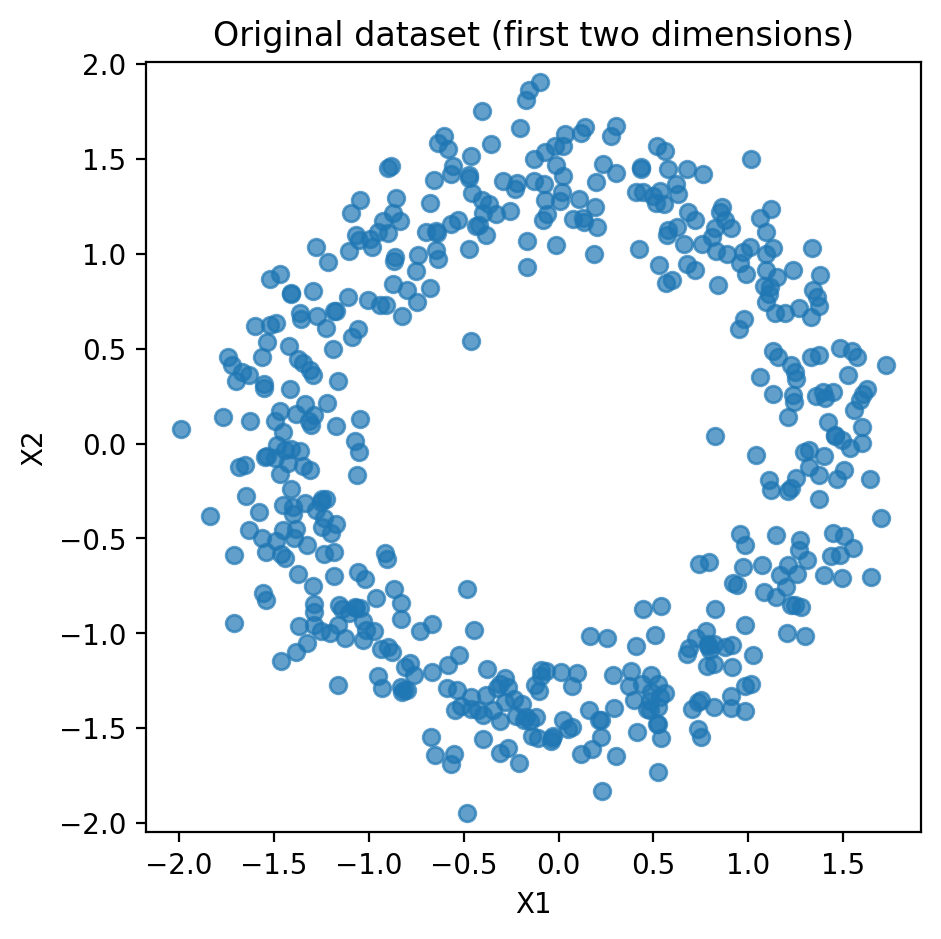
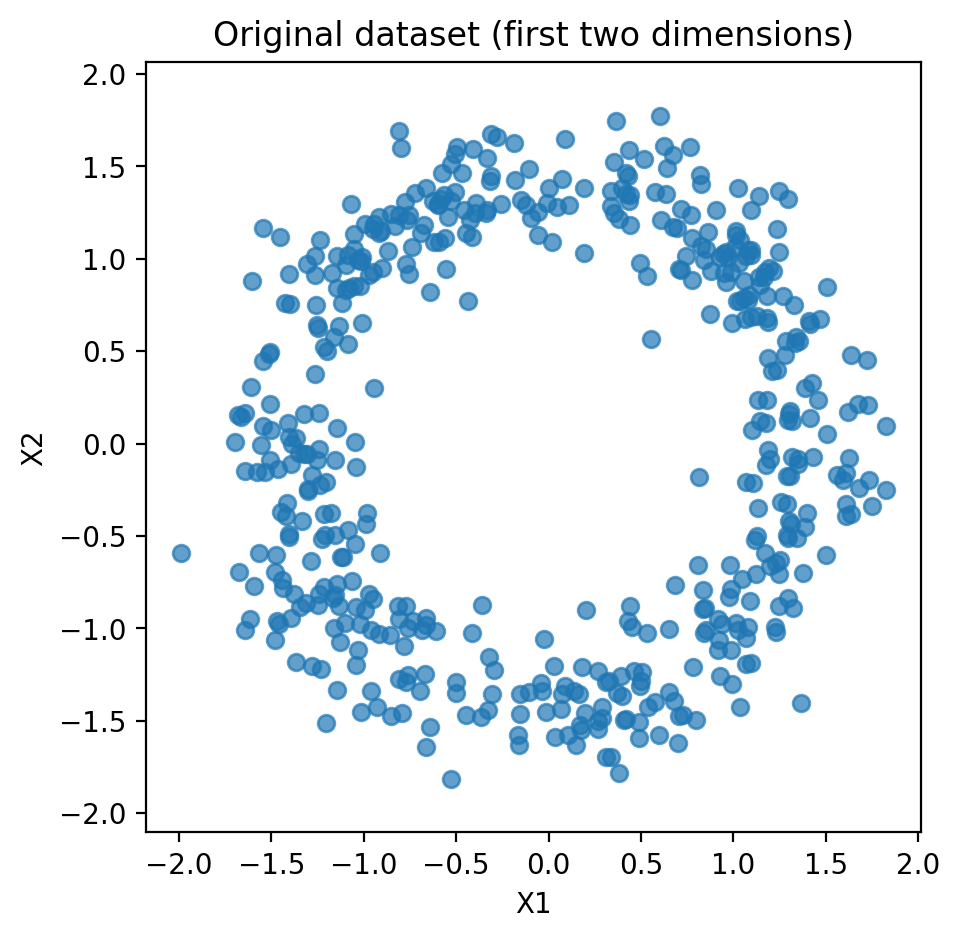
Update examples

diff --git a/examples/ics_principle.py b/examples/ics_principle.py
@@ -1,0 +1,153 @@
+import numpy as np
+import pandas as pd
+import plotly.graph_objects as go
+import plotly.express as px
+from math import atan2
+from scipy.stats import chi2
+from icspylab.scatter import cov, cov4
+from icspylab.ics import ICS
+
+
+path = "2_viz_output/"
+
+def create_ellipse_points(loc, cov):
+    """
+    Creates points to draw the ellipse of a distribution.
+
+    Parameters:
+        loc (array-like of shape (2,): location parameter
+        cov (array-like of shape (2,2): scatter matrix
+
+    Returns:
+        ndarray, ndarray: x and y coordinates of points to draw the ellipse
+    """
+
+    dist = np.sqrt(chi2.ppf(0.975, 2))
+
+    # Compute eigenvectors and eigenvalues
+    cov_eigenval, cov_eigenvect = np.linalg.eig(cov)
+    lambda1 = np.max(cov_eigenval)
+    lambda2 = np.min(cov_eigenval)
+    cov_eigenvect_max = cov_eigenvect[:, np.argsort(cov_eigenval)[1]]
+
+    # Compute the angle between the x-axis and the largest eigenvector, output must be between 0 and 2pi
+    alfa = atan2(cov_eigenvect_max[1], cov_eigenvect_max[0])
+    if alfa < 0:
+        alfa += (2 * np.pi)
+
+    # Create ellipse points in x and y coordinates
+    z = np.arange(0, 2*np.pi, 0.01)
+    z1 = dist * np.sqrt(lambda1) * np.cos(z)
+    z2 = dist * np.sqrt(lambda2) * np.sin(z)
+
+    # Define a rotation matrix and rotate the ellipse to angle alpha
+    r = np.array([[np.cos(alfa), np.sin(alfa)], [-np.sin(alfa), np.cos(alfa)]])
+    ellipse_points = loc + np.dot(np.column_stack((z1, z2)), r)
+
+    return ellipse_points[:, 0], ellipse_points[:, 1]
+
+
+# Generate data
+
+# Set parameters to generate data
+n_samples = 980
+n_outliers = 20
+n_features = 2
+add_outliers = True
+
+# Generate Gaussian data of shape (125,2)
+gen_cov = np.diag((1, 5))
+gen_loc = np.array([0, 0])
+
+X = np.random.default_rng().multivariate_normal(gen_loc, gen_cov, n_samples)
+df = pd.DataFrame(X, columns=['X1', 'X2'])
+df['Group'] = 'Group_1'
+
+# Add some outliers
+if add_outliers:
+    outlier_cov = gen_cov
+    outlier_loc = np.array([8, -2])
+    X_out = np.random.default_rng().multivariate_normal(outlier_loc, outlier_cov, n_outliers)
+    X = np.concatenate((X, X_out), axis=0)
+    df_out = pd.DataFrame(X_out, columns=['X1', 'X2'])
+    df_out['Group'] = 'Group_2'
+    df = pd.concat([df, df_out])
+
+
+# Scatter matrices
+
+# Compute two scatters
+cov_X = cov(X)
+cov4_X = cov4(X)
+
+# Create ellipses
+x_emp, y_emp = create_ellipse_points(cov_X.location, cov_X.scatter)
+x_cov4, y_cov4 = create_ellipse_points(cov4_X.location, cov4_X.scatter)
+
+# Plot groups
+fig = px.scatter(df, x='X1', y='X2', color='Group', color_discrete_sequence=['rgb(31, 119, 180)', 'rgb(255, 127, 14)'])
+# fig.update_yaxes(range=[-4, 4])
+# fig.update_xaxes(range=[-10, 13])
+fig.update_xaxes(scaleanchor='y')
+fig.update_yaxes(scaleanchor='x')
+fig.update_yaxes(range=[-10, 9])
+fig.update_xaxes(range=[-10, 13])
+fig.update_layout(width=600, height=525,
+                  margin=dict(l=20, r=20, t=20, b=20)
+                  )
+fig.write_image('../docs/_static/ellipses_empty.png')
+
+# LDA
+from sklearn.discriminant_analysis import LinearDiscriminantAnalysis as LDA
+lda = LDA(solver='eigen', n_components=1)
+X_lda = lda.fit_transform(X, df["Group"])
+lda_coef = lda.scalings_[:, 0]
+
+origin = np.mean(X, axis=0)
+axis_length = 20
+axis_start = origin - axis_length * lda_coef
+axis_end = origin + axis_length * lda_coef
+fig.add_trace(go.Scatter(x=[axis_start[0], axis_end[0]], y=[axis_start[1], axis_end[1]],
+                         line_color='rgb(23, 190, 207)', mode='lines', name='LDA'))
+fig.update_layout(width=600, height=525,
+                  margin=dict(l=20, r=20, t=20, b=20)
+                  )
+fig.write_image('../docs/_static/ellipses_lda.png')
+
+# Add ellipses
+fig.add_scatter(x=x_emp, y=y_emp, mode='lines', name='COV', line_color='rgb(188, 189, 34)')
+fig.add_scatter(x=x_cov4, y=y_cov4, mode='lines', name='COV4', line_color='rgb(148, 103, 189)')
+fig.update_layout(width=600, height=525,
+                  margin=dict(l=20, r=20, t=20, b=20)
+                  )
+fig.write_image('../docs/_static/ellipses_covcov4.png')
+
+# Add PCA
+from sklearn.decomposition import PCA
+from sklearn.preprocessing import StandardScaler
+scaler = StandardScaler()
+X_scaled = scaler.fit_transform(X)
+pca = PCA()
+pca.fit(X) # or X_scaled
+first_component = pca.components_[0]
+variance = pca.explained_variance_[0]
+axis_start = pca.mean_ - (axis_length-5) * first_component
+axis_end = pca.mean_ + (axis_length-5) * first_component
+fig.add_trace(go.Scatter(x=[axis_start[0], axis_end[0]], y=[axis_start[1], axis_end[1]],
+                         line_color='rgb(253, 108, 158)', mode='lines', name='PC1'))
+
+# ICS
+ics = ICS(S1=cov, S2=cov4, algorithm="whiten")
+X_new = ics.fit_transform(X)
+
+ics_coef = ics.W_
+axis_start = origin - axis_length * ics_coef[0]
+axis_end = origin + axis_length * ics_coef[0]
+fig.add_trace(go.Scatter(x=[axis_start[0], axis_end[0]], y=[axis_start[1], axis_end[1]],
+                         line_color='rgb(214, 39, 40)', mode='lines', name='ICS'))
+
+fig.update_layout(width=600, height=525,
+                  margin=dict(l=20, r=20, t=20, b=20)
+                  )
+fig.show()
+fig.write_image('../docs/_static/ellipses.png')

diff --git a/docs/conf.py b/docs/conf.py
@@ -26,6 +26,11 @@ extensions = [
     'myst_parser'
 ]
 
+myst_enable_extensions = [
+    "amsmath",
+    "dollarmath",
+]
+
 source_suffix = {
     ".rst": "restructuredtext",
     ".md": "markdown",

diff --git a/examples/randu.py b/examples/randu.py
@@ -58,3 +58,5 @@ ics.plot()
 
 print(tcov2(X).scatter)
 print(tcov(X).scatter)
+
+ics.describe()

diff --git a/docs/examples/ics_principle.md b/docs/examples/ics_principle.md
@@ -1,0 +1,154 @@
+# ICS principle
+
+This tutorial explains the objective of the ICS method and builds intuition about how invariant 
+components are computed. The explanation is based on a comparison with Linear Discriminant Analysis 
+(LDA). Indeed, ICS can be interpreted as an unsupervised analogue of LDA, where class labels are 
+not required.
+
+We begin by recalling the principle of LDA. 
+Consider a dataset generated from a mixture of Gaussian distributions: a main bulk of observations 
+and a smaller group located in another region of the space. In a clustering context, this example 
+can be viewed as one large cluster and a smaller one. Alternatively, it can be interpreted as 
+an anomaly detection problem, where the smaller group represents atypical observations.
+
+````python
+import numpy as np
+import pandas as pd
+
+# Generate data
+
+# Set parameters to generate data
+n_samples = 980
+n_outliers = 20
+n_features = 2
+add_outliers = True
+
+# Generate Gaussian data of shape (125,2)
+gen_cov = np.diag((1, 5))
+gen_loc = np.array([0, 0])
+
+X = np.random.default_rng().multivariate_normal(gen_loc, gen_cov, n_samples)
+df = pd.DataFrame(X, columns=['X1', 'X2'])
+df['Group'] = 'Group_1'
+
+# Add some outliers
+if add_outliers:
+    outlier_cov = gen_cov
+    outlier_loc = np.array([8, -2])
+    X_out = np.random.default_rng().multivariate_normal(outlier_loc, outlier_cov, n_outliers)
+    X = np.concatenate((X, X_out), axis=0)
+    df_out = pd.DataFrame(X_out, columns=['X1', 'X2'])
+    df_out['Group'] = 'Group_2'
+    df = pd.concat([df, df_out])
+````
+
+```{image} ../_static/ellipses_empty.png
+:alt: Original data
+:width: 400px
+:align: center
+```
+
+LDA aims to find a low-dimensional subspace that maximizes class separation, known as the Fisher 
+discriminant subspace. This is achieved by maximizing the ratio of the between-class scatter matrix 
+$B$ to the within-class scatter matrix $W$:
+
+```{math}
+\arg\max_{\substack{v \in \mathbb{R}^p}} \frac{v'Bv}{v'Wv}
+```
+
+```{image} ../_static/ellipses_lda.png
+:alt: LDA
+:width: 400px
+:align: center
+```
+
+ICS also aims to identify a low-dimensional subspace that highlights the directions 
+separating different groups of observations, but without using class labels. In that 
+sense, ICS can be viewed as an unsupervised analogue of LDA, as it seeks to recover the 
+Fisher discriminant subspace from the features alone.
+
+Instead of relying on the between-class and within-class scatter matrices (that cannot be computed
+without the labels), ICS maximizes the contrast between two scatter matrices that capture 
+different aspects of the data distribution. These matrices are required to be affine equivariant and 
+positive definite.
+
+> Let $Y$ be a random vector of dimension $p$, with distribution function $F_Y$. 
+> A scatter matrix of $Y$, denoted $V(F_Y)$, is a symmetric positive definite matrix of 
+> dimension $p \times p$ and affine equivariant. 
+> Let $\mathcal{P}_p$ be the set of all positive definite symmetric matrices of order $p$.
+
+ICS then solves a generalized eigenvalue problem of the form:
+
+```{math}
+\arg\max_{\substack{v \in \mathbb{R}^p}} \frac{v^\top V_2 v}{v^\top V_1 v}
+```
+
+where $V_1, V_2 \in \mathcal{P}_p$. 
+
+For instance, we can use:
+- The covariance matrix $\mathrm{COV}$, which measures overall dispersion, as $V_1$.
+- The fourth-moment scatter matrix $\mathrm{COV}_4$, which emphasizes directions associated with 
+deviations from Gaussianity, as $V_2$.
+
+These two scatters are given by
+
+```{math}
+\mathrm{COV}(Y)=\mathbb{E}[(Y - \mathbb{E}(Y))(Y - \mathbb{E}(Y))']
+```
+
+and 
+
+```{math}
+\mathrm{COV}_4(Y)=\frac{1}{p+2} \mathbb{E}[d^2(Y - \mathbb{E}(Y))(Y - \mathbb{E}(Y))']
+```
+
+where $d^2$ is the square of the Mahalanobis distance:
+
+```{math}
+d^2={(Y - \mathbb{E}(Y))'COV^{-1}(Y)(Y - \mathbb{E}(Y))}
+```
+
+In the plot below, $\mathrm{COV}$ can be viewed as analogous to the within-class scatter in 
+LDA, since it captures the global variability of the data. 
+In contrast, $\mathrm{COV}_4$ gives more weight to directions associated with group 
+separation, playing a role similar to a between-class scatter.
+
+```{image} ../_static/ellipses_covcov4.png
+:alt: Scatters
+:width: 400px
+:align: center
+```
+
+To compute the invariant components, ICS relies on the joint diagonalization of $V_1$ and 
+$V_2$.
+
+```{math}
+    \begin{align*}
+        H'V_1H &= I_p \\
+        H'V_2H &= \Delta
+    \end{align*}
+```
+   
+where $V_1, V_2 \in \mathcal{P}_p$, $\Delta = \text{diag}(\rho_1, \dots, \rho_p)$, $\rho_1, \dots, \rho_p$ 
+being the eigenvalues of $V_1^{-1}V_2$ sorted in descending order, and $H = (h_1, \dots, h_p)$ is a matrix 
+containing the corresponding eigenvectors.
+
+The components are given by
+
+```{math}
+Z = H'(Y - \mathbb{E}(Y))
+```
+
+The first invariant component is shown in the plot below. Its direction is very close to that obtained with LDA, 
+illustrating how ICS can recover the Fisher discriminant subspace in this example.
+For comparison, the first principal component is also displayed. This direction is substantially different and does 
+not provide a projection that clearly separates the two groups, highlighting the limitation of variance-based dimension 
+reduction in this setting.
+
+```{image} ../_static/ellipses.png
+:alt: ICS and PCA
+:width: 400px
+:align: center
+```
+
+## References

diff --git a/docs/index.rst b/docs/index.rst
@@ -28,9 +28,9 @@ You can find the source code for this project on our `GitHub Repository`_.
 Key Features
 ------------
 - Implementation of the ICS model
-- Detailed summary of the results
-- Plotting capabilities for transformed data (coming soon)
-- Scatter Matrices
+- Large catalogue of scatter matrices
+- Methods for component selection
+- Plotting capabilities for transformed data
 
 Installation
 ------------

diff --git a/docs/examples/randu.md b/docs/examples/randu.md
@@ -40,6 +40,8 @@ def generate_randu_dataset(n_points=400, seed=1.0):
 The plot below illustrates the generated RANDU dataset in three dimensions.
 
 ```python
+X = generate_randu_dataset()
+
 fig = plt.figure()
 ax = fig.add_subplot(projection="3d")
 ax.scatter(X[:, 0], X[:, 1], X[:, 2], s=2)

diff --git a/docs/examples/index.md b/docs/examples/index.md
@@ -8,3 +8,4 @@ for dimensionality reduction, clustering, and anomaly detection.
 
 randu
 circle
+ics_principle